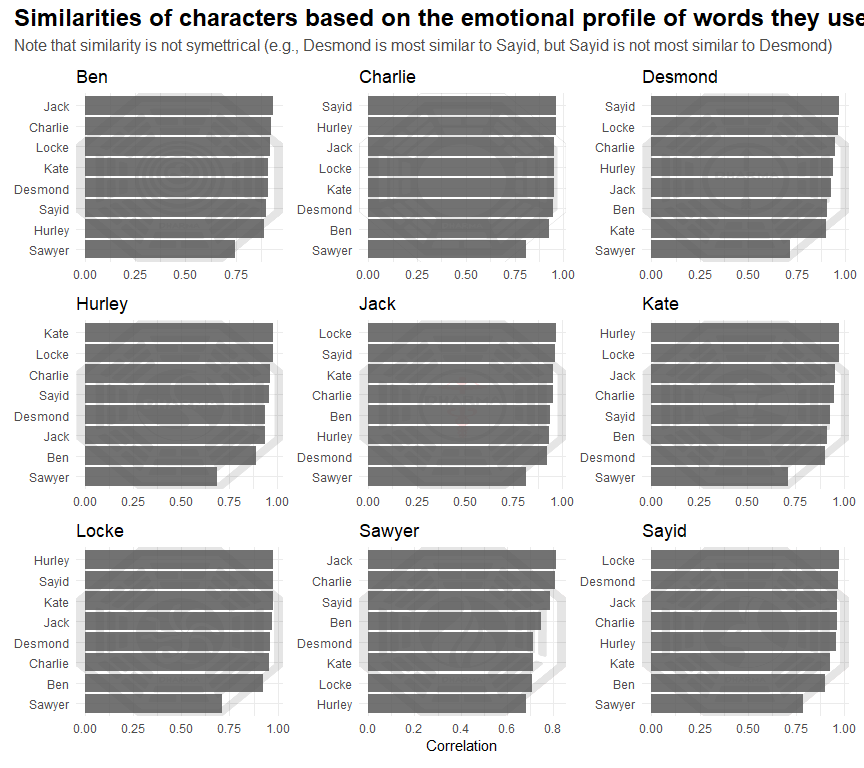
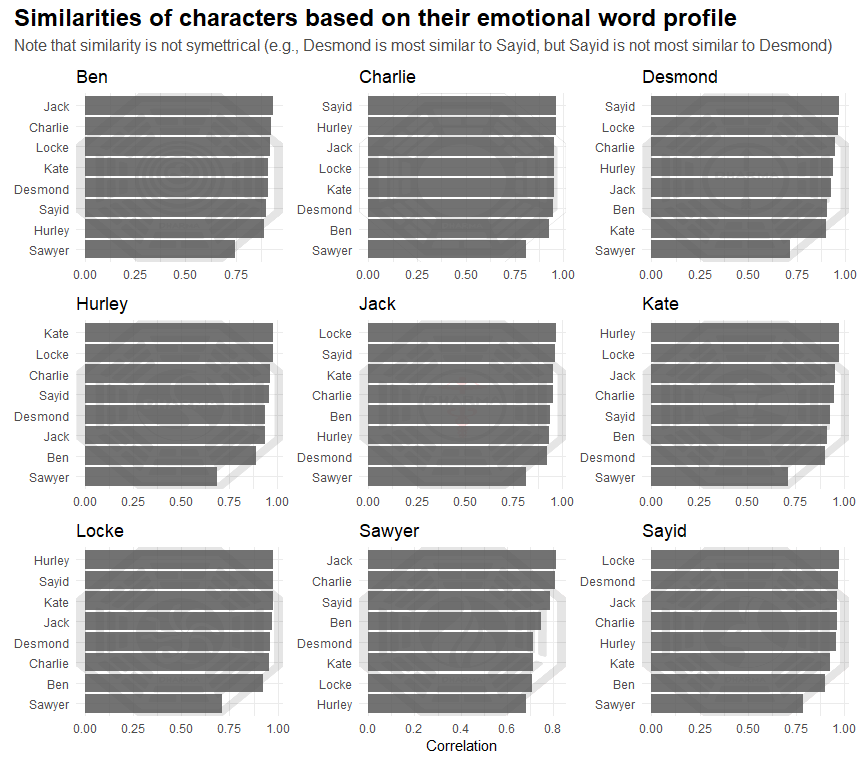
shorten long plot titles

Changed region(s): [[0.5312, 0.0, 1.0, 0.0625]]

diff --git a/README.md b/README.md
@@ -233,7 +233,7 @@ plot_top_lines(plot_6_data, prop, character, sentiment, "positive", "images/the_
     plot_top_lines(plot_6_data, prop, character, sentiment, "sadness", "images/the_staff_alpha_10.png", color = neg_color) +
     plot_top_lines(plot_6_data, prop, character, sentiment, "disgust", "images/the_swan_alpha_10.png", "Proportion of Words", color = neg_color) +
         plot_top_lines(plot_6_data, prop, character, sentiment, "anger", "images/the_tempest_alpha_10.png", "Proportion of Words", color = neg_color) +
-    plot_annotation(title = "Different characters have different core emotions their word choice conveys",
+    plot_annotation(title = "Different characters have different core emotions",
                     subtitle = "Notable mentions are anger for Sawyer and positive emotions for Desmond") +
     plot_layout(design = layout)
 ```
@@ -269,7 +269,7 @@ plot_top_lines(plot_7_data, correlation, item1, item2, "Ben", "images/the_orchid
     plot_top_lines(plot_7_data, correlation, item1, item2, "Locke", "images/the_hydra_alpha_10.png") +
     plot_top_lines(plot_7_data, correlation, item1, item2, "Sawyer", "images/the_flame_alpha_10.png", "Correlation") +
     plot_top_lines(plot_7_data, correlation, item1, item2, "Sayid", "images/the_looking_glass_alpha_10.png") +
-    plot_annotation(title = "Similarities of characters based on the emotional profile of words they use",
+    plot_annotation(title = "Similarities of characters based on their emotional word profile",
                     subtitle = "Note that similarity is not symettrical (e.g., Desmond is most similar to Sayid, but Sayid is not most similar to Desmond)")
 ```
 
